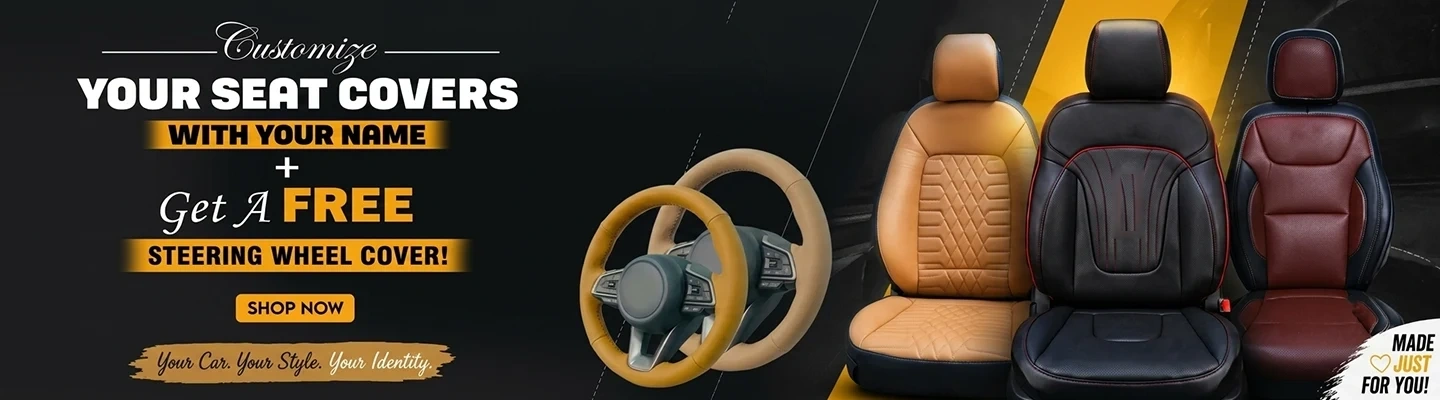
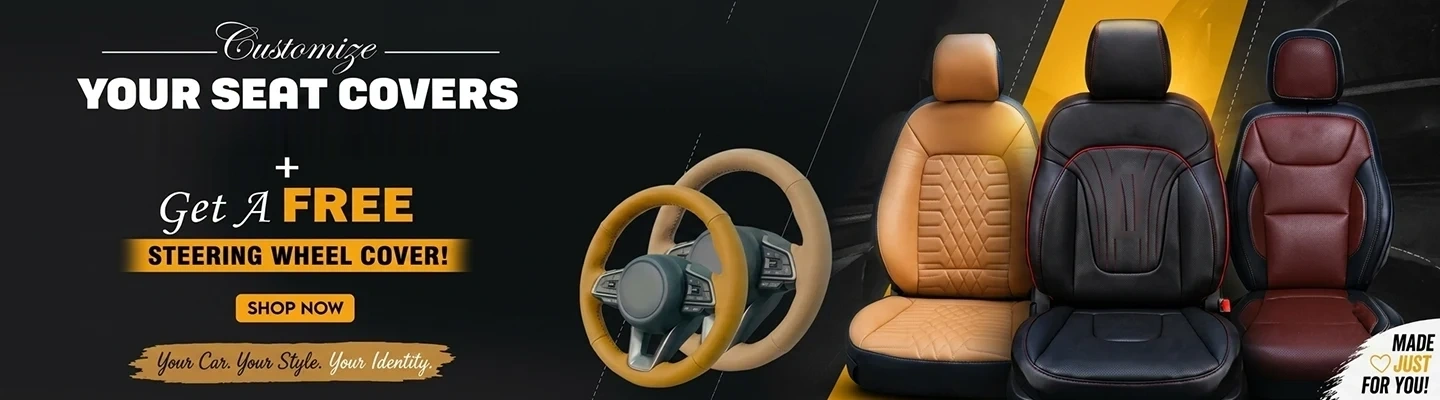
done

Changed region(s): [[0.0938, 0.3, 0.3125, 0.39]]

diff --git a/frontend/app/about/page.js b/frontend/app/about/page.js
@@ -3,4 +3,4 @@ import { T } from '../../components/LanguageProvider';
 
 export const metadata = { title: 'About Us | Amit Motor Car Accessories', description: 'Discover the story, experience and values behind Amit Motor Car Accessories in Bhavnagar.' };
 
-export default function AboutPage() { return <><section className="page-hero about-hero"><div className="container"><p className="eyebrow light"><T>Our story</T></p><h1><T>Built on trust.</T><br /><em><T>Driven by detail.</T></em></h1><p><T>For more than 40 years, Amit Motor Car Accessories has helped Gujarat’s drivers love their vehicles a little more.</T></p></div></section><section className="story-section section-pad"><div className="container story-grid"><div className="story-image"><img src="/accessories/seat-cover.png" alt="Custom black seat cover with red stitching" /></div><div className="story-copy"><p className="eyebrow"><T>The Amit Motor story</T></p><h2><T>One workshop. Generations of confidence.</T></h2><p><T>What began with a love for automobiles has grown into a trusted destination for car accessories, installations and custom styling in Bhavnagar.</T></p><p><T>Owner</T> <strong>Amitbhai Parmar</strong> <T>believes good work starts by listening. Every recommendation is practical, every installation is carefully finished, and every customer leaves knowing their vehicle is in capable hands.</T></p><div className="values"><div><strong>01</strong><span><T>Quality-first work</T></span></div><div><strong>02</strong><span><T>Honest guidance</T></span></div><div><strong>03</strong><span><T>Customer trust</T></span></div></div></div></div></section><section className="trust-band"><div className="container trust-grid"><div><p className="eyebrow light"><T>Why Gujarat chooses us</T></p><h2><T>Expertise you can feel in every detail.</T></h2></div><p><T>Whether you are refreshing your daily driver, preparing a family car for the road or styling a commercial vehicle, our team brings the same care to every job.</T></p></div></section><CtaSection /></>; }
+export default function AboutPage() { return <><section className="page-hero about-hero"><div className="container"><p className="eyebrow light"><T>Our story</T></p><h1><T>Built on trust.</T><br /><em><T>Driven by detail.</T></em></h1><p><T>For more than 40 years, Amit Motor Car Accessories has helped Gujarat’s drivers love their vehicles a little more.</T></p></div></section><section className="story-section section-pad"><div className="container story-grid"><div className="story-image"><img src="/accessories/fitted-mats.jpg" alt="Precisely fitted car floor mats" /></div><div className="story-copy"><p className="eyebrow"><T>The Amit Motor story</T></p><h2><T>One workshop. Generations of confidence.</T></h2><p><T>What began with a love for automobiles has grown into a trusted destination for car accessories, installations and custom styling in Bhavnagar.</T></p><p><T>Owner</T> <strong>Amitbhai Parmar</strong> <T>believes good work starts by listening. Every recommendation is practical, every installation is carefully finished, and every customer leaves knowing their vehicle is in capable hands.</T></p><div className="values"><div><strong>01</strong><span><T>Quality-first work</T></span></div><div><strong>02</strong><span><T>Honest guidance</T></span></div><div><strong>03</strong><span><T>Customer trust</T></span></div></div></div></div></section><section className="trust-band"><div className="container trust-grid"><div><p className="eyebrow light"><T>Why Gujarat chooses us</T></p><h2><T>Expertise you can feel in every detail.</T></h2></div><p><T>Whether you are refreshing your daily driver, preparing a family car for the road or styling a commercial vehicle, our team brings the same care to every job.</T></p></div></section><CtaSection /></>; }

diff --git a/frontend/app/contact/page.js b/frontend/app/contact/page.js
@@ -5,4 +5,4 @@ import WhatsAppLink from '../../components/WhatsAppLink';
 
 export const metadata = { title: 'Contact Us | Amit Motor Car Accessories', description: 'Contact Amit Motor Car Accessories for product and installation enquiries in Bhavnagar and across Gujarat.' };
 
-export default function ContactPage() { return <><section className="page-hero contact-hero"><div className="container"><p className="eyebrow light"><T>Let’s talk cars</T></p><h1><T>Bring your idea.</T><br /><em><T>We’ll make it real.</T></em></h1><p><T>Have a question, a vision or simply need the right advice? We are here for your enquiry 24/7.</T></p></div></section><section className="section-pad contact-section"><div className="container contact-grid"><div className="contact-details"><p className="eyebrow"><T>Contact Amit Motor</T></p><h2><T>Let’s start with a conversation.</T></h2><p><T>Call, WhatsApp or send us your requirements. We serve customers across Gujarat from our Bhavnagar workshop.</T></p><div className="detail-list"><a href="tel:9824994998"><span><T>Call us</T></span><strong>+91 98249 94998 ↗</strong></a><WhatsAppLink><span><T>WhatsApp us</T></span><strong><T>Chat with Amit Motor</T> ↗</strong></WhatsAppLink><div><span><T>Visit us</T></span><strong><T>{business.address}</T></strong></div><div><span><T>Availability</T></span><strong><T>24/7 enquiries · All Gujarat</T></strong></div></div><a className="map-link" href="https://www.google.com/maps/search/?api=1&query=Panwadi+Bhavnagar+Gujarat" target="_blank" rel="noreferrer"><T>Open location in Google Maps</T> ↗</a></div><div><ContactForm /></div></div></section></>; }
+export default function ContactPage() { return <><section className="page-hero contact-hero"><div className="container"><p className="eyebrow light"><T>Let’s talk cars</T></p><h1><T>Bring your idea.</T><br /><em><T>We’ll make it real.</T></em></h1><p><T>Have a question, a vision or simply need the right advice? We are here for your enquiry 24/7.</T></p></div></section><section className="section-pad contact-section"><div className="container contact-grid"><div className="contact-details"><p className="eyebrow"><T>Contact Amit Motor</T></p><h2><T>Let’s start with a conversation.</T></h2><p><T>Call, WhatsApp or send us your requirements. We serve customers across Gujarat from our Bhavnagar workshop.</T></p><figure className="contact-feature-image"><img src="/banners/car-body-cover.webp" alt="Premium car body cover designed to protect vehicles" /></figure><div className="detail-list"><a href="tel:9824994998"><span><T>Call us</T></span><strong>+91 98249 94998 ↗</strong></a><WhatsAppLink><span><T>WhatsApp us</T></span><strong><T>Chat with Amit Motor</T> ↗</strong></WhatsAppLink><div><span><T>Visit us</T></span><strong><T>{business.address}</T></strong></div><div><span><T>Availability</T></span><strong><T>24/7 enquiries · All Gujarat</T></strong></div></div><a className="map-link" href="https://www.google.com/maps/search/?api=1&query=Panwadi+Bhavnagar+Gujarat" target="_blank" rel="noreferrer"><T>Open location in Google Maps</T> ↗</a></div><div><ContactForm /></div></div></section></>; }

diff --git a/frontend/app/theme.css b/frontend/app/theme.css
@@ -18,8 +18,36 @@ html[data-theme='dark'] {
 }
 
 .brand-badge {
-  border-radius: 10px;
+  border-radius: 14px;
   letter-spacing: 0;
+  background: linear-gradient(145deg, #ff7846, var(--orange-dark));
+  box-shadow: 0 5px 12px rgb(200 62 14 / 22%);
+  transition: border-radius .2s, box-shadow .2s, transform .2s;
+}
+
+.brand {
+  gap: 12px;
+  border-radius: 12px;
+}
+
+.brand strong {
+  letter-spacing: .025em;
+}
+
+.brand small {
+  font-size: 9px;
+  letter-spacing: .16em;
+}
+
+.brand:hover .brand-badge {
+  border-radius: 50%;
+  box-shadow: 0 7px 16px rgb(200 62 14 / 30%);
+  transform: translateY(-1px);
+}
+
+.brand:focus-visible {
+  outline: 3px solid var(--orange);
+  outline-offset: 5px;
 }
 
 .site-header {
@@ -69,6 +97,7 @@ html[lang='gu'] body {
 }
 
 .home-slider {
+  margin-top: 24px;
   overflow: hidden;
   background: #101820;
 }
@@ -136,6 +165,19 @@ html[lang='gu'] body {
 
 .home-slider-dots button.is-active {
   background: var(--orange);
+}
+
+.contact-feature-image {
+  overflow: hidden;
+  margin: 26px 0 0;
+  border-radius: 12px;
+  background: var(--surface-raised);
+}
+
+.contact-feature-image img {
+  width: 100%;
+  aspect-ratio: 3.6 / 1;
+  object-fit: cover;
 }
 
 .seat-cover-offer {
@@ -339,6 +381,10 @@ html[data-theme='dark'] .contact-hero {
 }
 
 @media (max-width: 800px) {
+  .home-slider {
+    margin-top: 16px;
+  }
+
   .seat-cover-offer-inner {
     align-items: flex-start;
     flex-direction: column;
@@ -357,9 +403,15 @@ html[data-theme='dark'] .contact-hero {
     align-self: flex-start;
     margin: 14px 0 0;
   }
+
+  .brand-badge {
+    width: 38px;
+    height: 38px;
+  }
 }
 
 @media (prefers-reduced-motion: reduce) {
+  .brand-badge,
   .nav-call,
   .theme-toggle {
     transition: none;

diff --git a/frontend/components/LanguageProvider.js b/frontend/components/LanguageProvider.js
@@ -24,7 +24,7 @@ const gujarati = {
   'Explore Our Services': 'અમારી સેવાઓ જુઓ',
   'View Our Work': 'અમારું કામ જુઓ',
   'Special offer': 'ખાસ ઑફર',
-  'Customise your seat covers with your name': 'તમારા નામ સાથે સીટ કવર કસ્ટમાઇઝ કરાવો',
+  'Customise your seat covers': 'તમારા સીટ કવર કસ્ટમાઇઝ કરાવો',
   'Get a FREE steering wheel cover with your customised seat covers.': 'કસ્ટમાઇઝ્ડ સીટ કવર સાથે સ્ટિયરિંગ વ્હીલ કવર મફત મેળવો.',
   'Ask about this offer': 'આ ઑફર વિશે પૂછો',
   'Years of experience': 'વર્ષોનો અનુભવ',

diff --git a/frontend/app/page.js b/frontend/app/page.js
@@ -14,7 +14,7 @@ export default function Home() {
       <div className="container seat-cover-offer-inner">
         <div>
           <p className="eyebrow light"><T>Special offer</T></p>
-          <h2><T>Customise your seat covers with your name</T></h2>
+          <h2><T>Customise your seat covers</T></h2>
           <p><T>Get a FREE steering wheel cover with your customised seat covers.</T></p>
         </div>
         <WhatsAppLink className="button button-light" product="Custom Seat Covers"><T>Ask about this offer</T> <span>↗</span></WhatsAppLink>

diff --git a/frontend/components/HomeBannerSlider.js b/frontend/components/HomeBannerSlider.js
@@ -3,7 +3,7 @@
 import { useEffect, useState } from 'react';
 
 const banners = [
-  { src: '/banners/seat-covers.webp', alt: 'Customise your seat covers with your name and get a free steering wheel cover' },
+  { src: '/banners/seat-covers.webp', alt: 'Custom seat covers with a free steering wheel cover offer' },
   { src: '/banners/car-body-cover.webp', alt: 'Premium car body cover available for 500 or more car models' },
   { src: '/banners/steering-wheel-cover.webp', alt: 'Premium tan leather steering wheel covers' },
 ];
